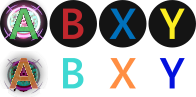
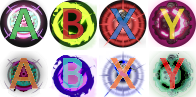
Add files via upload

diff --git a/abxytest/abxy1.css b/abxytest/abxy1.css
@@ -1,6 +1,6 @@
 /*BEGIN Xbox One Controller Styling*/
 .controller.xbox {
-    background: url(xbox-assets/base.svg);
+    background: url(basemod.png);
     height: 630px;
     width: 750px;
     /*    margin-left: -375px;
@@ -17,6 +17,59 @@
 
 .xbox.disconnected div {
     display: none;
+}
+
+.xbox .triggers {
+    width: 446px;
+    height: 121px;
+    position: absolute;
+    left: 152px;
+}
+
+.xbox .trigger {
+    width: 88px;
+    height: 121px;
+    background: url(xbox-assets/trigger.svg);
+    opacity: 0;
+}
+
+.xbox .trigger.left {
+    float: left;
+    background-position: 0 0;
+}
+
+.xbox .trigger.right {
+    float: right;
+    transform: rotateY(180deg);
+}
+
+.xbox .bumper {
+    width: 170px;
+    height: 61px;
+    background: url(xbox-assets/bumper.svg);
+    opacity: 0;
+}
+
+.xbox .bumpers {
+    position: absolute;
+    width: 536px;
+    height: 61px;
+    left: 107px;
+    top: 129px;
+}
+
+.xbox .bumper.pressed {
+    opacity: 1;
+}
+
+.xbox .bumper.left {
+    float: left;
+}
+
+.xbox .bumper.right {
+    float: right;
+    -webkit-transform: rotateY(180deg);
+    transform: rotateY(180deg);
 }
 
 .xbox .quadrant {
@@ -47,6 +100,34 @@
 .xbox .p3 {
     -webkit-transform: rotate(180deg);
     transform: rotate(180deg);
+}
+
+.xbox .arrows {
+    position: absolute;
+    width: 141px;
+    height: 33px;
+    top: 264px;
+    left: 306px;
+}
+
+.xbox .back, .xbox .start {
+    background: url(xbox-assets/start-select.svg);
+    width: 33px;
+    height: 33px;
+    opacity: 0;
+}
+
+.xbox .back.pressed, .xbox .start.pressed {
+    opacity: 1;
+}
+
+.xbox .back {
+    float: left;
+}
+
+.xbox .start {
+    background-position: 33px 0px;
+    float: right;
 }
 
 .xbox .abxy {
@@ -92,6 +173,85 @@
     background-position: 48px 0;
     left: 55px;
     top: 7px;
+}
+
+.xbox .sticks {
+    position: absolute;
+    width: 371px;
+    height: 196px;
+    top: 239px;
+    left: 144px;
+}
+
+.xbox .stick {
+    position: absolute;
+    background: url(stick1.png);
+    background-position: -85px 0;
+    height: 83px;
+    width: 83px;
+}
+
+.xbox .stick.pressed {
+    background-position: 0 0;
+}
+
+.xbox .stick.left {
+    top: 0;
+    left: 0;
+}
+
+.xbox .stick.right {
+    top: 113px;
+    left: 288px;
+}
+
+.xbox .dpad {
+    position: absolute;
+    width: 110px;
+    height: 111px;
+    top: 345px;
+    left: 223px;
+}
+
+.xbox .face {
+    background: url(dpad1.png);
+    position: absolute;
+    opacity: 0;
+}
+
+.xbox .face.pressed {
+    opacity: 1;
+}
+
+.xbox .face.up {
+    background-position: 34px 0;
+    left: 38px;
+    top: 0px;
+    width: 34px;
+    height: 56px;
+}
+
+.xbox .face.down {
+    left: 38px;
+    bottom: 0;
+    width: 34px;
+    height: 56px;
+}
+
+.xbox .face.left {
+    background-position: 0 -93px;
+    width: 55px;
+    height: 35px;
+    top: 38px;
+    left: 0;
+}
+
+.xbox .face.right {
+    background-position: 0 -57px;
+    width: 55px;
+    height: 35px;
+    top: 38px;
+    right: 0;
 }
 
 .xbox.half {
